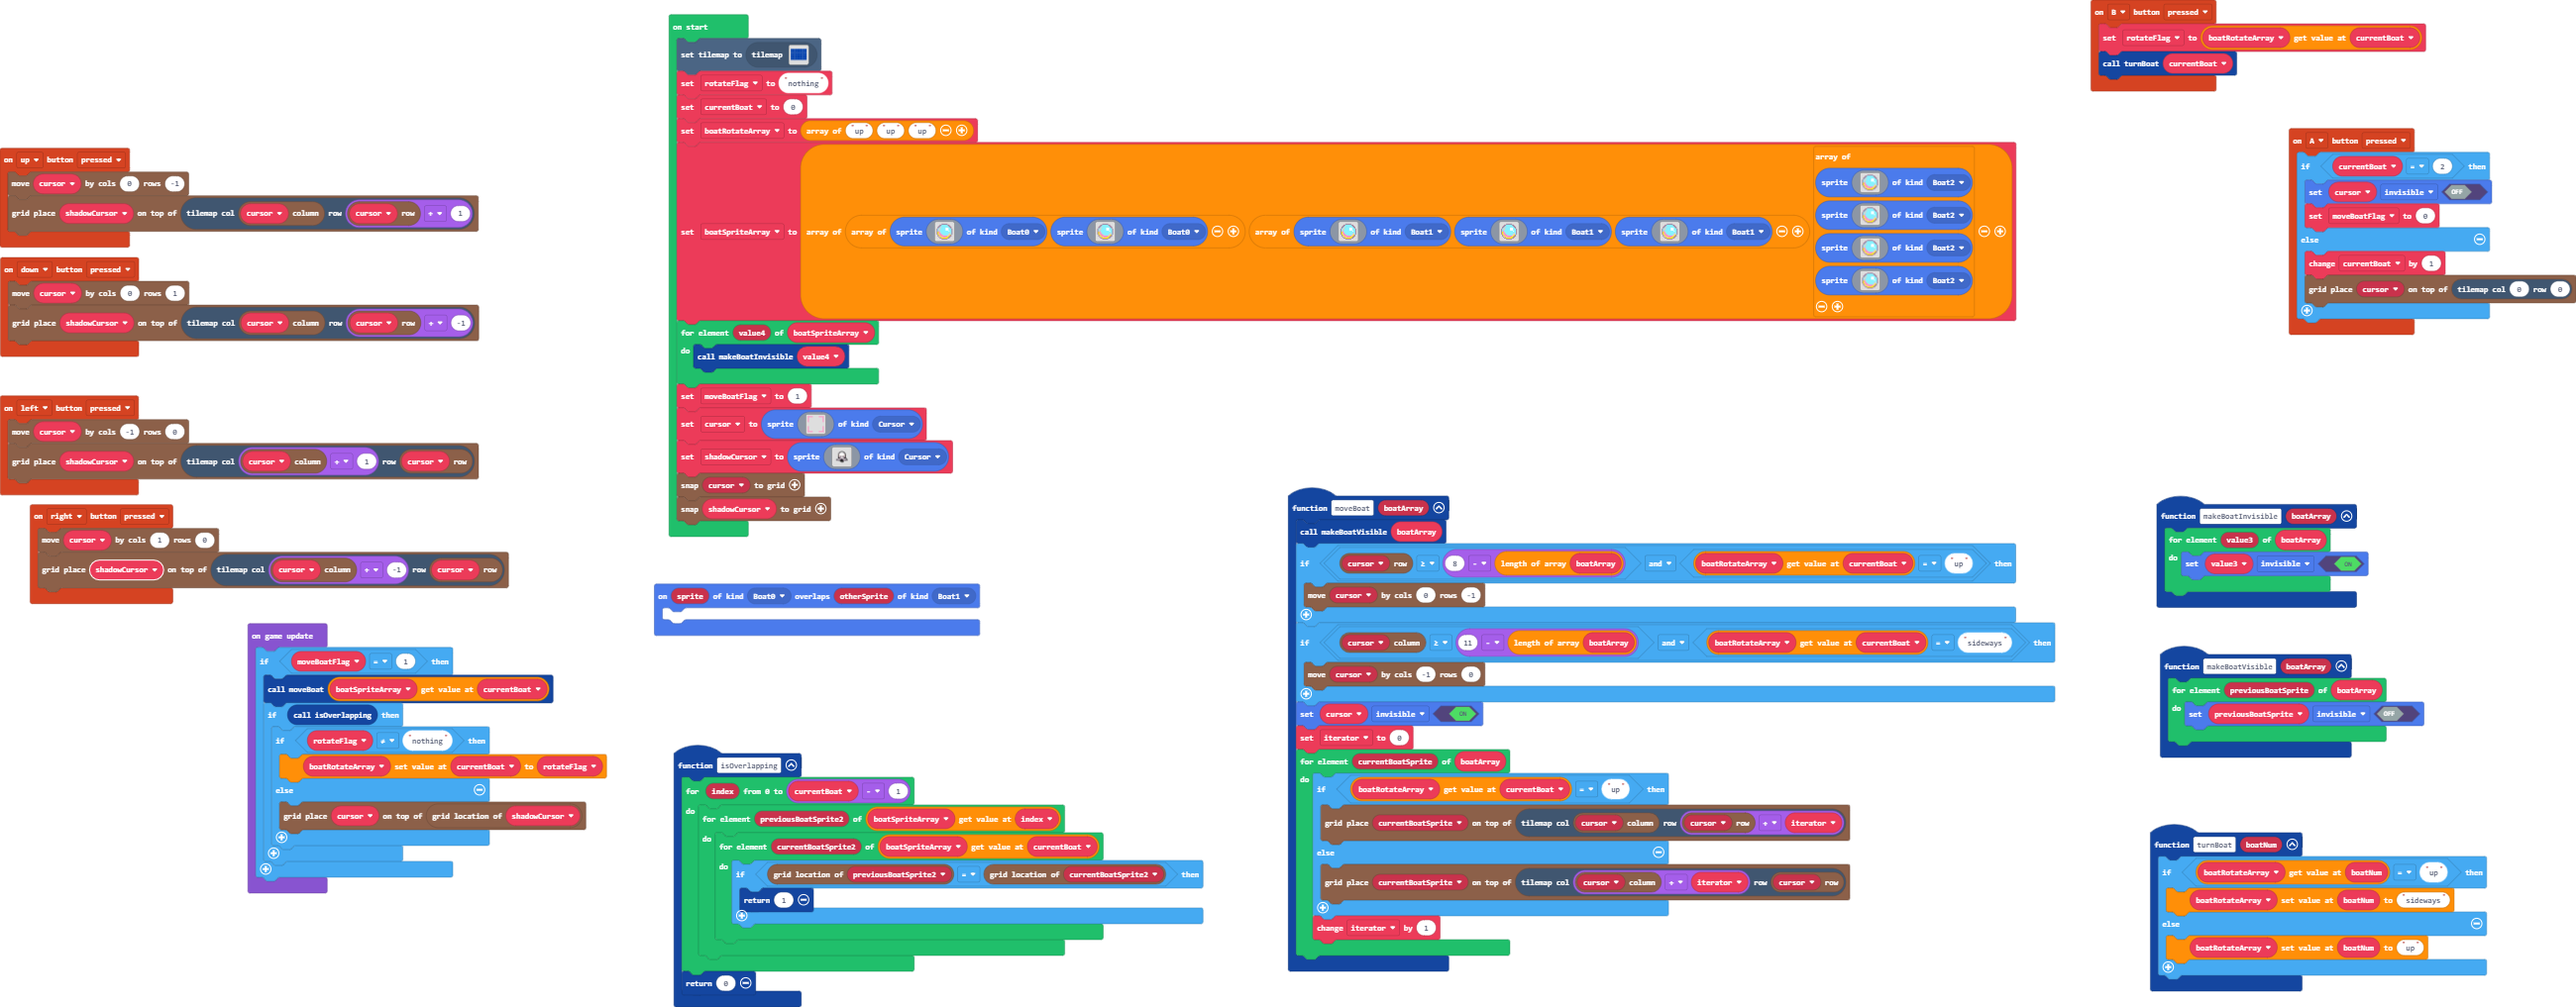
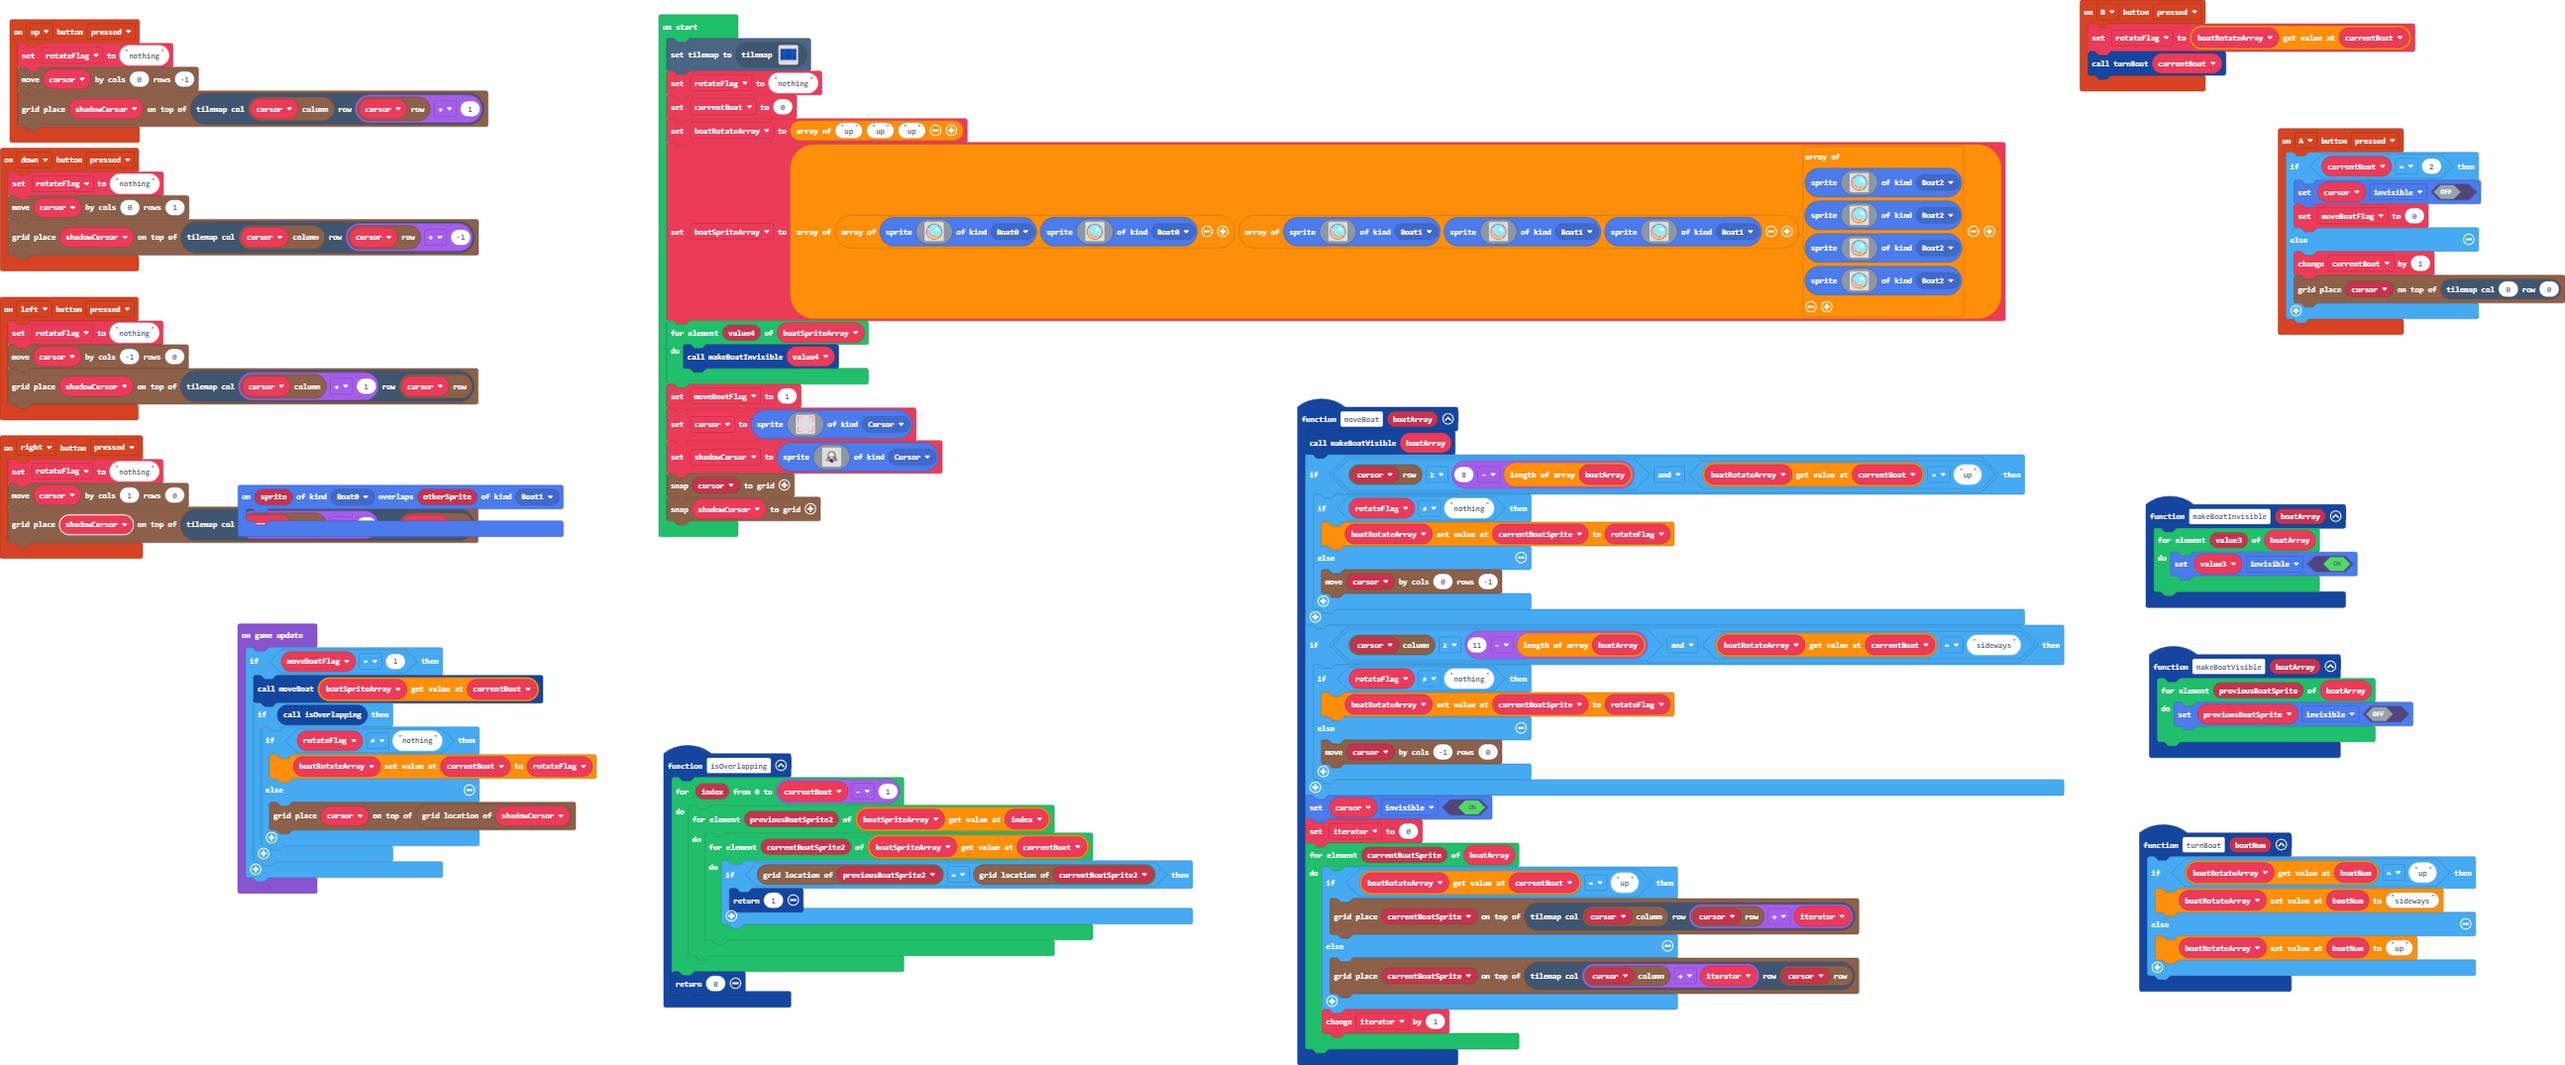
fix rotate bug

diff --git a/main.ts b/main.ts
@@ -5,6 +5,7 @@ namespace SpriteKind {
     export const Boat2 = SpriteKind.create()
 }
 controller.up.onEvent(ControllerButtonEvent.Pressed, function () {
+    rotateFlag = "nothing"
     grid.move(cursor, 0, -1)
     grid.place(shadowCursor, tiles.getTileLocation(grid.spriteCol(cursor), grid.spriteRow(cursor) + 1))
 })
@@ -30,20 +31,31 @@ controller.A.onEvent(ControllerButtonEvent.Pressed, function () {
     }
 })
 controller.left.onEvent(ControllerButtonEvent.Pressed, function () {
+    rotateFlag = "nothing"
     grid.move(cursor, -1, 0)
     grid.place(shadowCursor, tiles.getTileLocation(grid.spriteCol(cursor) + 1, grid.spriteRow(cursor)))
 })
 controller.right.onEvent(ControllerButtonEvent.Pressed, function () {
+    rotateFlag = "nothing"
     grid.move(cursor, 1, 0)
     grid.place(shadowCursor, tiles.getTileLocation(grid.spriteCol(cursor) + -1, grid.spriteRow(cursor)))
 })
 function moveBoat (boatArray: any[]) {
+    let currentBoatSprite = 0
     makeBoatVisible(boatArray)
     if (grid.spriteRow(cursor) >= 8 - boatArray.length && boatRotateArray[currentBoat] == "up") {
-        grid.move(cursor, 0, -1)
+        if (rotateFlag != "nothing") {
+            boatRotateArray[currentBoatSprite] = rotateFlag
+        } else {
+            grid.move(cursor, 0, -1)
+        }
     }
     if (grid.spriteCol(cursor) >= 11 - boatArray.length && boatRotateArray[currentBoat] == "sideways") {
-        grid.move(cursor, -1, 0)
+        if (rotateFlag != "nothing") {
+            boatRotateArray[currentBoatSprite] = rotateFlag
+        } else {
+            grid.move(cursor, -1, 0)
+        }
     }
     cursor.setFlag(SpriteFlag.Invisible, true)
     iterator = 0
@@ -57,6 +69,7 @@ function moveBoat (boatArray: any[]) {
     }
 }
 controller.down.onEvent(ControllerButtonEvent.Pressed, function () {
+    rotateFlag = "nothing"
     grid.move(cursor, 0, 1)
     grid.place(shadowCursor, tiles.getTileLocation(grid.spriteCol(cursor), grid.spriteRow(cursor) + -1))
 })
